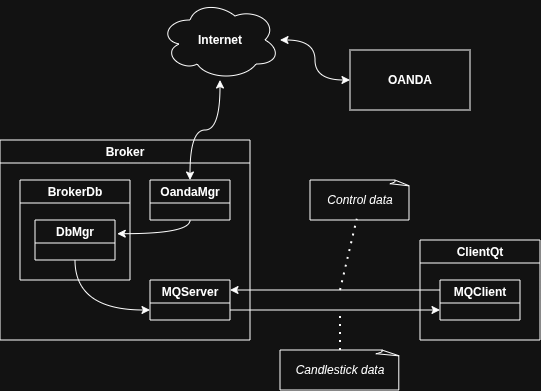
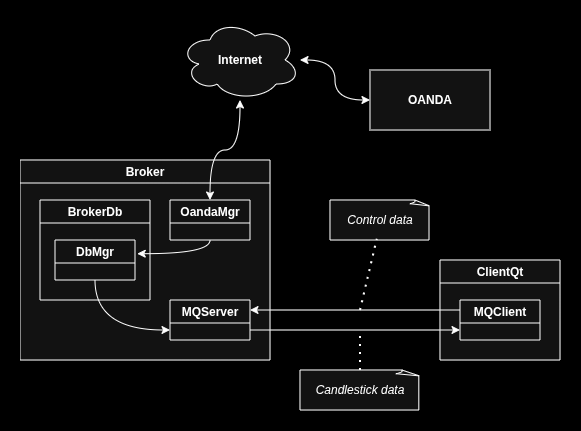
Style: Tweaked colors and added a border to the class diagram

diff --git a/tests/index.md b/tests/index.md
@@ -15,8 +15,8 @@ Most tests here are `pytest` tests. They can be executed directly by providing t
 
 3rd party testing tools have also been integrated into this projectL:
 
-Testing Software |
-[flake8]()
+- [flake8](https://flake8.pycqa.org/en/latest/)
+- 
 
 ---
 